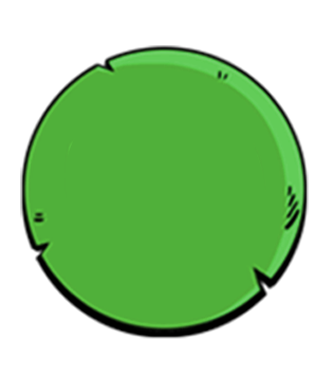
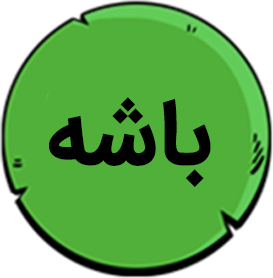
...

diff --git a/www/username.html b/www/username.html
@@ -2,8 +2,7 @@
   <ion-content class="page-background" scroll="false">
     <div class="myText">
       <div class="row">
-        <a class="col grid-example s6 mytitle">
-          دعوت دوست
+        <a class="col grid-example s6 mate-title">
         </a>
       </div>
       <form name="forgetForm" ng-show="!forgetPassCodeForm" novalidate ng-submit="search(username)">

diff --git a/www/css/menu.css b/www/css/menu.css
@@ -494,6 +494,10 @@ span.font-36 {
   background: url(../img/05.png) no-repeat center;
   background-size: 40%;
 }
+.mate-title {
+  background: url(../img/a04.png) no-repeat center;
+  background-size: 40%;
+}
 
 .avardgah {
   background: url(../img/23-6.png) no-repeat center;
